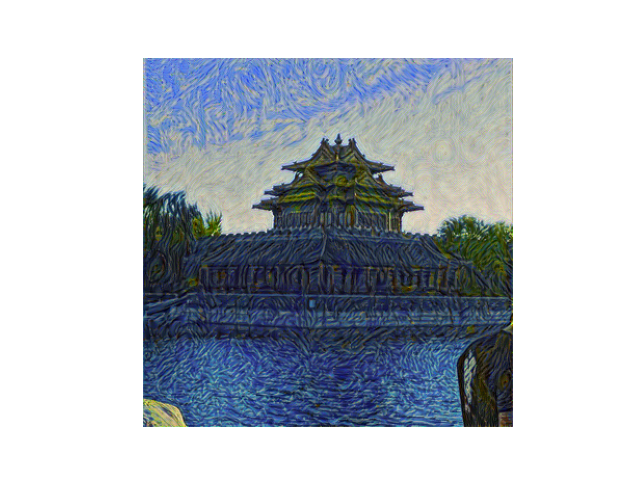
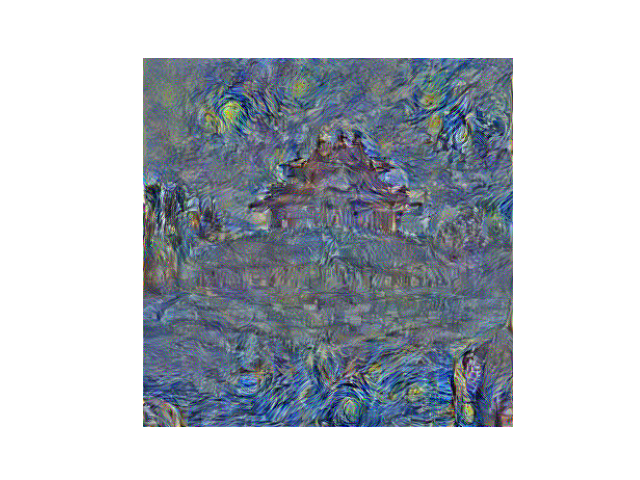
更严格按照论文中方法

diff --git a/gatys.py b/gatys.py
@@ -120,23 +120,22 @@ if __name__ == "__main__":
     style_features = get_features(style, model)
     style_grams = [gram_matrix(feature[:-1]) for feature in style_features]
 
-    # clone content image since content image will be optimized
-    target = content.clone().requires_grad_(True).to(device)
+    # white noise image
+    target = torch.randn_like(content).requires_grad_(True).to(device)
 
-    style_weights = [1e3 / n ** 2 for n in [64, 128, 256, 512, 512]]
-    content_weight = 1  # alpha
-    style_weight = 1e6  # beta
-    optimizer = optim.Adam([target], lr=0.003)
-    steps = 2000
-    show_every = 400  # show result every 400 steps
+    w = 1/5  # w_l
+    alpha = 1  # alpha
+    beta = 1e5  # beta
+    content_weight = 1 / 2
+    style_weights = [1 / (f.shape[0]**2 * f.shape[1]**2) / 4 for f in style_features]
+    optimizer = optim.LBFGS([target])
+    steps = 500
+    show_every = 10
 
-    # iteration
-    for ii in tqdm(
-            range(1, steps + 1),
-            desc="Transfering",
-    ):
+    def closure():
+        optimizer.zero_grad()
         target_features = get_features(target, model)
-        content_loss = F.mse_loss(target_features[-1], content_features[-1])
+        content_loss = F.mse_loss(target_features[-1], content_features[-1], reduction='sum') * content_weight
         style_loss = 0
         for target_feature, style_gram, weight in zip(
                 target_features,
@@ -144,17 +143,18 @@ if __name__ == "__main__":
                 style_weights
         ):
             target_gram = gram_matrix(target_feature[:-1])
-            style_loss += F.mse_loss(target_gram, style_gram) * weight
-        total_loss = content_weight * content_loss + style_weight * style_loss
-        optimizer.zero_grad()
+            style_loss += F.mse_loss(target_gram, style_gram, reduction='sum') * weight * w
+        total_loss = alpha * content_loss + beta * style_loss
         total_loss.backward()
-        optimizer.step()
+        return total_loss
 
-        # plot
-        if ii % show_every == 0:
-            print(f"Total loss: {total_loss.item()}")
+    for i in tqdm(range(1, steps + 1)):
+        optimizer.step(closure)
+        loss = closure()
+        if i % show_every == 0:
             plt.imshow(postprocess(target))
             plt.axis("off")
+            plt.title(f"Iter {i}, Loss: {loss.item()}")
             plt.show()
 
     # save image
